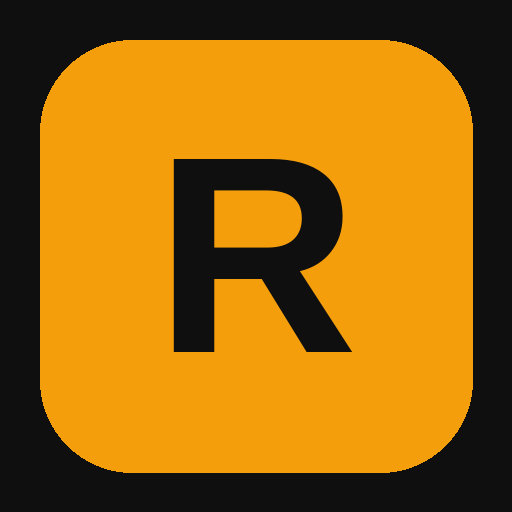
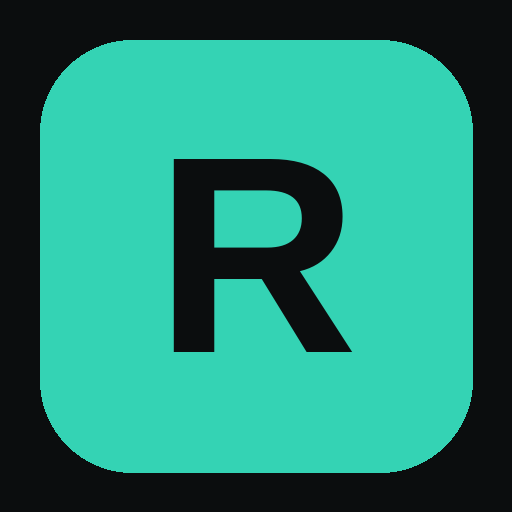
Verkäufe: Paginierung + Fallback; neues dunkles Mint-Design mit Kopfzeile
Claude-Session: https://claude.ai/code/session_01D5TCsgjhyUnvXHNuvABfuz

diff --git a/web/src/app/(app)/layout.tsx b/web/src/app/(app)/layout.tsx
@@ -4,11 +4,25 @@ import { read } from "@/lib/store";
 export const dynamic = "force-dynamic";
 
 export default function AppLayout({ children }: { children: React.ReactNode }) {
-  const pending = read().drafts.filter((d) => d.status === "pending").length;
+  const d = read();
+  const pending = d.drafts.filter((x) => x.status === "pending").length;
+  const acc = d.accounts.find((a) => a.status === "connected") ?? d.accounts[0];
   return (
     <div className="flex min-h-screen">
       <Sidebar pendingDrafts={pending} />
-      <main className="min-w-0 flex-1 p-8">{children}</main>
+      <div className="min-w-0 flex-1">
+        <header className="sticky top-0 z-10 flex h-14 items-center justify-end gap-3 border-b border-line bg-bg/80 px-8 backdrop-blur">
+          {acc ? (
+            <a href="/konten" className="flex items-center gap-2 rounded-full border border-line bg-panel px-3 py-1 text-sm">
+              <span className={`h-2 w-2 rounded-full ${acc.status === "connected" ? "bg-accent" : "bg-red-400"}`} />
+              {acc.username ? `@${acc.username}` : acc.label}
+            </a>
+          ) : (
+            <a href="/konten" className="btn-primary">Vinted verbinden</a>
+          )}
+        </header>
+        <main className="p-8">{children}</main>
+      </div>
     </div>
   );
 }

diff --git a/extension/vinted-core.js b/extension/vinted-core.js
@@ -98,8 +98,29 @@
   }
 
   async function soldOrders() {
-    const r = await api("GET", "/api/v2/my_orders?type=sold&status=all&per_page=50&page=1");
-    return r?.my_orders ?? r?.orders ?? [];
+    // Mehrere Varianten probieren – Vinted ändert das gelegentlich
+    const variants = [
+      (p) => `/api/v2/my_orders?type=sold&status=all&per_page=50&page=${p}`,
+      (p) => `/api/v2/my_orders?type=sold&per_page=50&page=${p}`,
+      (p) => `/api/v2/my_orders?type=sold&status=completed&per_page=50&page=${p}`,
+    ];
+    let lastError = null;
+    for (const v of variants) {
+      try {
+        const all = [];
+        for (let page = 1; page <= 10; page++) {
+          const r = await api("GET", v(page));
+          const batch = r?.my_orders ?? r?.orders ?? r?.transactions ?? [];
+          all.push(...batch);
+          const total = r?.pagination?.total_pages ?? 1;
+          if (!batch.length || page >= total) break;
+          await jitter(600, 1400);
+        }
+        if (all.length) return all;
+      } catch (e) { lastError = e; }
+    }
+    if (lastError) throw lastError;
+    return [];
   }
 
   async function notifications() {

diff --git a/web/src/components/Studio.tsx b/web/src/components/Studio.tsx
@@ -197,7 +197,7 @@ export function Studio() {
                 <div className="absolute inset-y-0 w-0.5 bg-white" style={{ left: `${split}%` }} />
                 <span className="absolute left-2 top-2 rounded bg-black/70 px-2 py-0.5 text-[11px]">Vorher</span>
                 <span className="absolute right-2 top-2 rounded bg-accent px-2 py-0.5 text-[11px] text-black">Nachher</span>
-                <input type="range" min={0} max={100} value={split} onChange={(e) => setSplit(Number(e.target.value))} className="absolute inset-x-0 bottom-3 mx-auto w-2/3 accent-amber-500" />
+                <input type="range" min={0} max={100} value={split} onChange={(e) => setSplit(Number(e.target.value))} className="absolute inset-x-0 bottom-3 mx-auto w-2/3 accent-teal-400" />
               </div>
             )}
           </div>

diff --git a/web/src/app/api/ext/sync/route.ts b/web/src/app/api/ext/sync/route.ts
@@ -63,6 +63,17 @@ export async function POST(req: NextRequest) {
       s.orders++;
     }
 
+    // Fallback: als verkauft markierte Artikel ohne Bestellung trotzdem als Verkauf zählen
+    for (const l of d.listings) {
+      if (l.account_id !== accountId || l.status !== "sold") continue;
+      if (d.orders.some((o) => o.account_id === accountId && (o.listing_id === l.id || o.title === l.title))) continue;
+      d.orders.push({
+        id: id(), account_id: accountId, vinted_transaction_id: -l.vinted_item_id, listing_id: l.id, title: l.title,
+        buyer: null, country: null, price: l.price, shipping_fee: null, status: "sold", sold_at: l.updated_at, raw: null,
+      });
+      s.orders++;
+    }
+
     // Favoriten
     for (const raw of body.notifications ?? []) {
       const f = normalizeFavourite(raw);

diff --git a/web/src/app/(app)/automationen/page.tsx b/web/src/app/(app)/automationen/page.tsx
@@ -68,7 +68,7 @@ export default function Automations() {
                   <p className="mt-1 text-sm text-muted">{r.desc}</p>
                 </div>
                 <label className="flex cursor-pointer items-center gap-2 text-sm">
-                  <input type="checkbox" name="enabled" defaultChecked={rule?.enabled} className="h-4 w-4 accent-amber-500" />
+                  <input type="checkbox" name="enabled" defaultChecked={rule?.enabled} className="h-4 w-4 accent-teal-400" />
                   Aktiv
                 </label>
               </div>

diff --git a/web/src/app/globals.css b/web/src/app/globals.css
@@ -1,13 +1,13 @@
 @import "tailwindcss";
 
 @theme {
-  --color-bg: #0f0f10;
-  --color-panel: #17171a;
-  --color-panel-2: #1f1f23;
-  --color-line: #2a2a30;
-  --color-muted: #8b8b95;
-  --color-accent: #f59e0b;
-  --color-accent-2: #fbbf24;
+  --color-bg: #0b0d0e;
+  --color-panel: #131719;
+  --color-panel-2: #1a2023;
+  --color-line: #253033;
+  --color-muted: #8a979b;
+  --color-accent: #34d3b4;
+  --color-accent-2: #5ee6cb;
   --font-sans: ui-sans-serif, system-ui, -apple-system, "Segoe UI", Roboto, sans-serif;
 }
 

diff --git a/web/src/app/(app)/page.tsx b/web/src/app/(app)/page.tsx
@@ -33,7 +33,7 @@ export default function Overview() {
 
   return (
     <>
-      <PageHeader title="Übersicht" sub="Dein Geschäft der letzten 30 Tage" />
+      <PageHeader title="Übersicht" sub={`Dein Geschäft der letzten 30 Tage · insgesamt ${d.orders.length} Verkäufe (${eur(d.orders.reduce((s, o) => s + (o.price ?? 0), 0))})`} />
       <div className="grid grid-cols-2 gap-4 lg:grid-cols-4">
         <Stat label="Umsatz" value={eur(revenue)} />
         <Stat label="Bestellungen" value={String(list.length)} />

diff --git a/web/src/app/manifest.ts b/web/src/app/manifest.ts
@@ -8,8 +8,8 @@ export default function manifest(): MetadataRoute.Manifest {
     start_url: "/",
     scope: "/",
     display: "standalone",
-    background_color: "#0f0f10",
-    theme_color: "#0f0f10",
+    background_color: "#0b0d0e",
+    theme_color: "#0b0d0e",
     lang: "de",
     icons: [
       { src: "/icon-192.png", sizes: "192x192", type: "image/png" },

diff --git a/web/src/app/layout.tsx b/web/src/app/layout.tsx
@@ -9,7 +9,7 @@ export const metadata: Metadata = {
   appleWebApp: { capable: true, title: "Resello", statusBarStyle: "black-translucent" },
 };
 
-export const viewport: Viewport = { themeColor: "#0f0f10" };
+export const viewport: Viewport = { themeColor: "#0b0d0e" };
 
 export default function RootLayout({ children }: { children: React.ReactNode }) {
   return (
